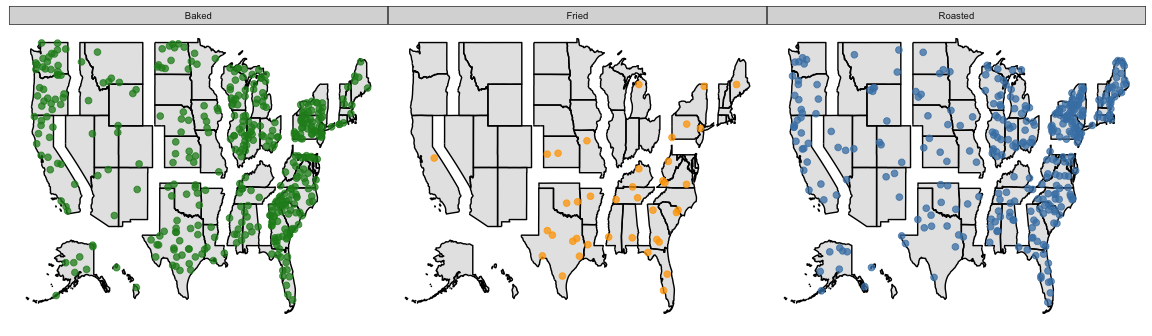
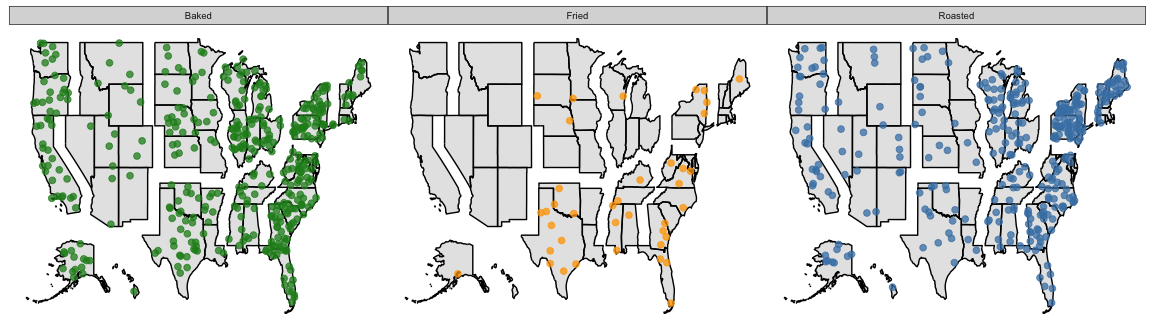
date on README.md

diff --git a/README.md b/README.md
@@ -1,127 +1,107 @@
-mapr
-====
+# ggmapr
+Heike Hofmann  
+`r format(Sys.time(), '%d %B, %Y')`  
 
-This R package is helping with working with maps by making insets,
-pull-outs or zooms:
 
-![](README_files/figure-markdown_strict/unnamed-chunk-2-1.png)
+
+[![Travis-CI Build Status](https://travis-ci.org/heike/mapr.svg?branch=master)](https://travis-ci.org/heike/mapr)
+
+
+This R package is helping with working with maps by making insets, pull-outs or zooms:
+
+
+
+![](README_files/figure-html/unnamed-chunk-2-1.png)<!-- -->
 
 This map is saved as object `division` in the package.
 
-Map of **all** US states and state equivalents as defined by the 2016
-Tiger shapefiles provided by the US Census Bureau:
+Map of __all__ US states and state equivalents as defined by the 2016 Tiger shapefiles provided by the US Census Bureau:
 
-    data(states)
-    states %>% 
-      ggplot(aes(x = long, y = lat)) + geom_path(aes(group = group)) +
-      ggthemes::theme_map()
 
-![](README_files/figure-markdown_strict/unnamed-chunk-3-1.png)
+```r
+data(states)
+states %>% 
+  ggplot(aes(x = long, y = lat)) + geom_path(aes(group = group)) +
+  ggthemes::theme_map()
+```
 
-The functions `scale` and `shift` allow us to scale and shift parts of
-the map:
+![](README_files/figure-html/unnamed-chunk-3-1.png)<!-- -->
 
-    states %>%
-      shift("NAME", "Hawaii", shift_by = c(52.5, 5.5)) %>%
-      scale("NAME", "Alaska", scale=0.3, set_to=c(-117, 27)) %>%
-      filter(lat > 20) %>%
-     ggplot(aes(long, lat)) + geom_path(aes(group=group)) +
-      ggthemes::theme_map() 
 
-![](README_files/figure-markdown_strict/unnamed-chunk-5-1.png)
+The functions `scale` and `shift` allow us to scale and shift parts of the map:
 
-This map is available as data object `inset`.
 
-Looking for counties as well? The objects `counties` and
-`counties_inset` are available in the data objects.
 
-    counties_inset %>% ggplot(aes(x = long, y = lat)) +
-      geom_path(aes(group = group), size=0.25) +
-      geom_path(aes(group = group), data = inset) +
-      ggthemes::theme_map() 
 
-![](README_files/figure-markdown_strict/unnamed-chunk-6-1.png)
+```r
+states %>%
+  shift("NAME", "Hawaii", shift_by = c(52.5, 5.5)) %>%
+  scale("NAME", "Alaska", scale=0.3, set_to=c(-117, 27)) %>%
+  filter(lat > 20) %>%
+ ggplot(aes(long, lat)) + geom_path(aes(group=group)) +
+  ggthemes::theme_map() 
+```
 
-Sampling from a uniform distribution
-====================================
+![](README_files/figure-html/unnamed-chunk-5-1.png)<!-- -->
 
-Below are maps of the US overlaid by about 3200 points each. The points
-are placed uniformly within the geographic region. The number of points
-in each region is based on different strategies. From left to right we
-have: (top-left) a sample of locations selected uniformly across the US,
-(top-right) each state contains a set of 63 uniformly selected
-locations, (bottom-left) each dot represents about 100k residents in
-each state.
+This map is available as data object `inset`. 
 
-![](README_files/figure-markdown_strict/unnamed-chunk-7-1.png)
 
-The function underlying the map based random sampling is `map_unif`.
-This function takes a map (or a subset of a map) and a number `n` and
-produces a dataset of `n` uniformly distributed random geo-locations
-within the area specified by the map.
+Looking for counties as well? The objects `counties` and `counties_inset` are available in the data objects.
 
-Thanksgiving traditions
-=======================
 
-In 2015 FiveThirtyEight commissioned a survey asking people across the
-US a number of Thanksgiving related questions, such as side dishes,
-flavor of the pie, desserts and after dinner activities. They reported
-on the main difference in an
-<a href="http://fivethirtyeight.com/features/heres-what-your-part-of-america-eats-on-thanksgiving/">article
-published on Nov 20 2015</a>.
+```r
+counties_inset %>% ggplot(aes(x = long, y = lat)) +
+  geom_path(aes(group = group), size=0.25) +
+  geom_path(aes(group = group), data = inset) +
+  ggthemes::theme_map() 
+```
 
-The dataset with responses of more than 1000 participants is available
-from FiveThirtEight's
-<a href="https://github.com/fivethirtyeight/data/blob/master/thanksgiving-2015/thanksgiving-2015-poll-data.csv">data
-git hub repository</a>.
+![](README_files/figure-html/unnamed-chunk-6-1.png)<!-- -->
 
-The main finding was shown in a choropleth chart highlighting the
-**disproportionally most common side dish** in each region.
+# Sampling from a uniform distribution
 
-The FiveThirtyEight chart is fun, but it doesn't show the whole picture.
-What else can we find out from the data about Thanksgiving traditions?
+Below are maps of the US overlaid by about 3200 points each. The points are placed uniformly within the geographic region. The number of points in each region is based on different strategies. From left to right we have: (top-left) a sample of locations selected uniformly across the US, (top-right) each state contains a set of 63 uniformly selected locations, (bottom-left) each dot represents about 100k residents in each state.
 
-Looking at how participants said to prepare their turkeys we see that
-the country is mostly divided between Roasting and Baking the turkey,
-but some proportion of participants said that their turkey was being
-fried (orange). When we look closer, we see that there is a geographical
-component to where turkeys are getting fried.
-![](README_files/figure-markdown_strict/unnamed-chunk-9-1.png)
+![](README_files/figure-html/unnamed-chunk-7-1.png)<!-- -->
 
-For the side dishes, FiveThirtyEight styled a chart showing the
-***disproportionally most common*** side dish. We have adapted the
-underlying model to deal with the ***disproportionally most common***
-way of preparing the main dish. This gives a nice and simple map like
-this:
 
-![](README_files/figure-markdown_strict/unnamed-chunk-10-1.png)
+The function underlying the map based random sampling is `map_unif`. This function takes a map (or a subset of a map) and a number `n` and produces a dataset of `n` uniformly distributed random geo-locations within the area specified by the map.
 
-We see that in the South and South East turkey's are being fried
-disproportionally most often, whereas everywhere else it is a toss-up
-between roasting and baking the bird. But is that the whole picture ...
-and what does disproprotionally most common actually mean?
+
+# Thanksgiving traditions
+
+In 2015 FiveThirtyEight  commissioned a survey asking people across the US a number of Thanksgiving related questions, such as side dishes, flavor of the pie, desserts and after 
+dinner activities. They reported on the main difference in an <a href="http://fivethirtyeight.com/features/heres-what-your-part-of-america-eats-on-thanksgiving/">article published on Nov 20 2015</a>. 
+
+The dataset with responses of more than 1000 participants is available from FiveThirtEight's <a href="https://github.com/fivethirtyeight/data/blob/master/thanksgiving-2015/thanksgiving-2015-poll-data.csv">data git hub repository</a>.
+
+The main finding was shown in a choropleth chart highlighting the __disproportionally most common side dish__ in each region.
+
+The FiveThirtyEight chart is fun, but it doesn't show the whole picture. What else can we find out from the data about Thanksgiving traditions? 
+
+
+
+Looking at how participants said to prepare their turkeys we see that the country is mostly divided between Roasting and Baking the turkey, but some proportion of participants said that their turkey was being fried (orange). When we look closer, we see that there is a geographical component to where turkeys are getting fried.
+![](README_files/figure-html/unnamed-chunk-9-1.png)<!-- -->
+
+For the side dishes, FiveThirtyEight styled a chart showing the ***disproportionally most common*** side dish. We have adapted the underlying model to deal with the ***disproportionally most common*** way of preparing the main dish. This gives a nice and simple map like this:
+
+![](README_files/figure-html/unnamed-chunk-10-1.png)<!-- -->
+
+We see that in the South and South East turkey's are being fried disproportionally most often, whereas everywhere else it is a toss-up between roasting and baking the bird.
+But is that the whole picture ... and what does disproprotionally most common actually mean?
 
 Let's go back to the raw data and put those on the map:
 
-![](README_files/figure-markdown_strict/unnamed-chunk-11-1.png)
+![](README_files/figure-html/unnamed-chunk-11-1.png)<!-- -->
 
-We get a similar picture, if not quite as simple as the previous map -
-but data is rarely that simple! We still see the toss-up between baking
-and roasting. And it looks like the bakers of turkey are in the lead in
-the North East and the Mounatin division. What we also see is the
-geographical connection of the fried turkeys: the South and South East
-sees more of them, but there are some friers all along the East Coast,
-that we didn't see before.
+We get a similar picture, if not quite as simple as the previous map - but data is rarely that simple! We still see the toss-up between baking and roasting. And it looks like the bakers of turkey are in the lead in the North East and the Mounatin division.
+What we also see is the geographical connection of the fried turkeys: the South and South East sees more of them, but there are some friers all along the East Coast, that we didn't see before.
 
-Going back to the (loglinear) model of the ways turkeys are cooked by
-division, we can visualize the residuals using randomly picked locations
-in each of the divisions.
+Going back to the (loglinear) model of the ways turkeys are cooked by division, we can visualize the residuals using randomly picked locations in each of the divisions. 
 
-![](README_files/figure-markdown_strict/unnamed-chunk-12-1.png)
+![](README_files/figure-html/unnamed-chunk-12-1.png)<!-- -->
 
-What we see now, is the geographical pattern from before: fried turkeys
-are (disproportionally) most common in the South East, and we see the
-split between baked and roasted turkey across the country - with roasted
-turkey in particular most popular in New England. What we find
-additionally, though, is that besides fried turkey in the South East, we
-also see a liking of baked turkey that was not apparent before.
+What we see now, is the geographical pattern from before: fried turkeys are (disproportionally) most common in the South East, and we see the split between baked and roasted turkey across the country - with roasted turkey in particular most popular in New England. What we find additionally, though, is that besides fried turkey in the South East, we also see a liking of baked turkey that was not apparent before.
+
